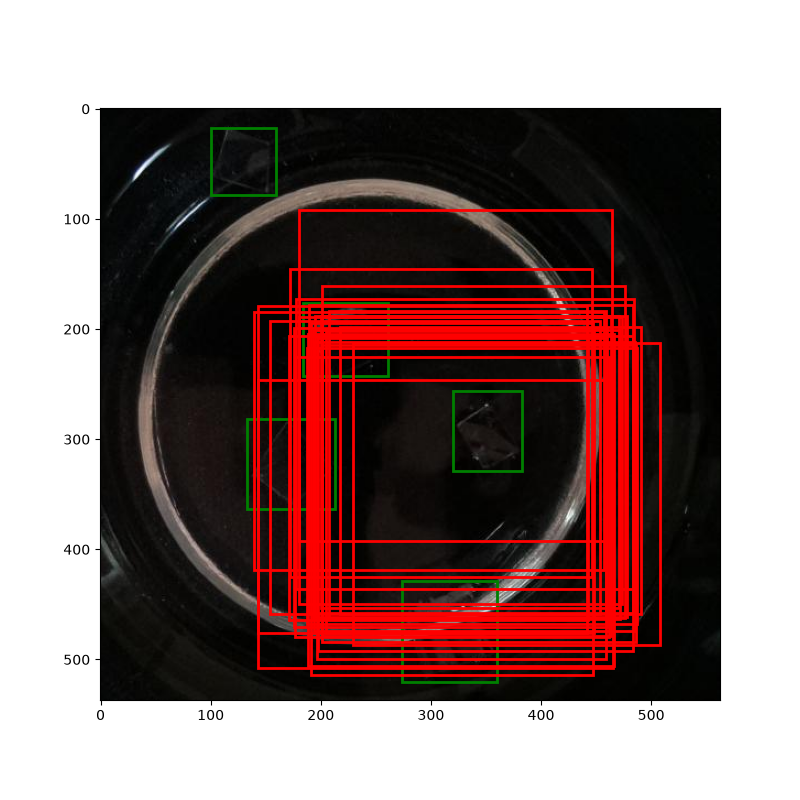
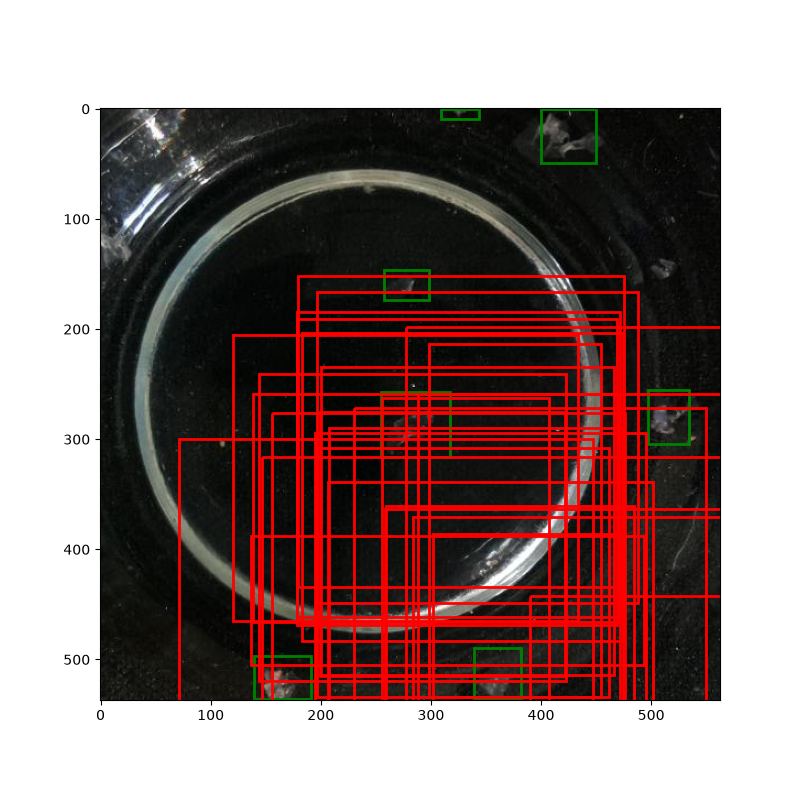
updated run instructions (these are the 'final' instructions) and train.py confidence threshold to be 0.6 instead of 0.5

diff --git a/src/test.py b/src/test.py
@@ -1,5 +1,5 @@
 import torch
-from torchvision import transform
+from torchvision import transforms
 from PIL import Image
 from cnn_model import CustomCNN
 
@@ -13,15 +13,15 @@ model.eval() #notifies network that we r using this for testing
 
 
 #image preprocessing (resize to 256x256 and convert to tensor)
-transform_inference = transform.Compose([
-    transform.Resize((256, 256)), #resizing image to 256x256 since that was the size the images were during training
-    transform.ToTensor(),  #makes pixel values go from 0-255 to 0-1 and converts to tensor
+transforms_inference = transforms.Compose([
+    transforms.Resize((256, 256)), #resizing image to 256x256 since that was the size the images were during training
+    transforms.ToTensor(),  #makes pixel values go from 0-255 to 0-1 and converts to tensor
 ])
 
 
 def run_inference(image_path, conf_threshold=0.5):
     original_image = Image.open(image_path).convert("RGB") #convert to RGB since we trained the model on RGB images    
-    input_tensor = transform_inference(original_image).unsqueeze(0).to(device) #allows dimension to be a batch, for example [1, 3, 256, 256] instead of [3, 256, 256] (1 represents batch size)
+    input_tensor = transforms_inference(original_image).unsqueeze(0).to(device) #allows dimension to be a batch, for example [1, 3, 256, 256] instead of [3, 256, 256] (1 represents batch size)
    
     with torch.no_grad(): #makes sure torch dont run gradients since we not training rn
         outputs = model(input_tensor)
@@ -54,7 +54,7 @@ def run_inference(image_path, conf_threshold=0.5):
 
 
 #example test on random testing image, make sure to replace "random_testing_image.jpg" with the actual path to the test image
-result = run_inference("random_testing_image.jpg", conf_threshold=0.7)
+result = run_inference("data\microplastic-dataset-for-computer-vision\organized_images\ClassB\b--18-_jpg.rf.47619bec35dba029d567c6097eac49de.jpg", conf_threshold=0.7)
 print(f"Detected microplastics: {result['num_detections']}")
 print(f"Pixel Coordinates: {result['pixel_boxes']}")
 print(f"Confidence Scores: {result['confidence_scores']}")

diff --git a/src/train.py b/src/train.py
@@ -33,7 +33,7 @@ LABELS_PATH = ROOT / "new_data" / "archive" / "train" / "_annotations.csv"  # bu
 
 DEVICE = torch.device("cuda" if torch.cuda.is_available() else "cpu")  # choose the GPU if it is available, otherwise use the CPU.
 BATCH_SIZE = 32  # set the batch size for mini-batch training.
-EPOCHS = 2  # set the number of training epochs.
+EPOCHS = 20  # set the number of training epochs.
 LEARNING_RATE = 0.001  # set the learning rate for the optimizer.
 
 
@@ -276,7 +276,7 @@ def visualize_predictions(model, loader, device):
             target = targets[0]
             path = paths[0]
 
-            confidence_threshold = 0.5
+            confidence_threshold = 0.6
             preds[:,4] = torch.sigmoid(preds[:,4])
             preds = preds[preds[:,4] > confidence_threshold]
 
